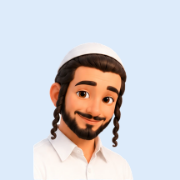
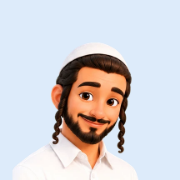
Icône : le nouveau portrait du hassid (Android, web, Nokia)
Portrait fourni le 29/10 (tools/sources-images/icone_hassid.png), détouré
de son fond menthe par tools/icone_hassid.py et cadré comme
ic_launcher_face_f (kippa à 102 px, buste au bord bas). Régénérés :
ic_launcher_face.webp, les icônes web (node web/tools/icones.mjs ; celles
de צדקת restent identiques) et l'icône Nokia 32 × 32.

Claude-Session: https://claude.ai/code/session_01VB4uYzfMCXsk1SaYZVbb7D

diff --git a/tools/icone_hassid.py b/tools/icone_hassid.py
@@ -1,0 +1,56 @@
+"""Le visage de l'icône au masculin (ic_launcher_face), depuis le portrait fourni le
+29/10 (tools/sources-images/icone_hassid.png, fond menthe uni).
+
+Le fond menthe touchant le bord est retiré, avec un bord doux dé-mélangé (la teinte
+menthe ne reste pas sur les cheveux) ; cadrage identique à ic_launcher_face_f : le haut
+de la kippa à 102 px, le buste jusqu'au bord bas, 432 × 432. Écrit aussi l'icône
+Nokia (32 × 32 sur icone_fond_vert).
+
+    python3 tools/icone_hassid.py && node web/tools/icones.mjs
+"""
+from pathlib import Path
+
+import numpy as np
+from PIL import Image
+from scipy import ndimage as nd
+
+RACINE = Path(__file__).resolve().parent.parent
+SOURCE = RACINE / 'tools/sources-images/icone_hassid.png'
+SORTIE = RACINE / 'android/app/src/main/res/drawable-nodpi/ic_launcher_face.webp'
+NOKIA = RACINE / 'nokia/app/res/icone.png'
+FOND_ICONE = (0xDF, 0xF5, 0xE8)  # icone_fond_vert
+
+
+def detoure(u):
+    coins = np.concatenate([u[:40, :40].reshape(-1, 3), u[:40, -40:].reshape(-1, 3), u[400:800, :30].reshape(-1, 3)])
+    fond = np.median(coins, axis=0)
+    d = np.sqrt(((u - fond) ** 2).sum(-1))
+    # Le fond : ce qui est proche de la menthe et relié au bord (la chemise blanche, à
+    # une trentaine de niveaux de la menthe, n'y entre pas).
+    lab, _ = nd.label(d < 22)
+    bord = set(np.unique(np.concatenate([lab[0], lab[-1], lab[:, 0], lab[:, -1]]))) - {0}
+    alpha = np.where(np.isin(lab, list(bord)), np.clip((d - 8) / 14, 0, 1), 1.0)
+    a = alpha[..., None]
+    rgb = np.clip(np.where(a > 0.02, (u - (1 - a) * fond) / np.maximum(a, 1e-3), u), 0, 255)
+    return Image.fromarray(np.dstack([rgb, alpha * 255]).astype(np.uint8), 'RGBA'), alpha
+
+
+def main():
+    u = np.asarray(Image.open(SOURCE).convert('RGB')).astype(float)
+    im, alpha = detoure(u)
+    haut = int(np.where(alpha.max(1) > 0.5)[0][0])
+    im = im.crop((0, haut, im.width, im.height))
+    h = 432 - 102
+    im = im.resize((round(im.width * h / im.height), h), Image.LANCZOS)
+    toile = Image.new('RGBA', (432, 432), (0, 0, 0, 0))
+    toile.alpha_composite(im, ((432 - im.width) // 2, 102))
+    toile.save(SORTIE, 'WEBP', quality=90, method=6)
+    print(f'{SORTIE.name} 432×432 (visage {im.width}×{im.height})')
+    nokia = Image.new('RGBA', (432, 432), FOND_ICONE + (255,))
+    nokia.alpha_composite(toile)
+    nokia.convert('RGB').resize((32, 32), Image.LANCZOS).save(NOKIA)
+    print(f'{NOKIA.name} 32×32')
+
+
+if __name__ == '__main__':
+    main()
